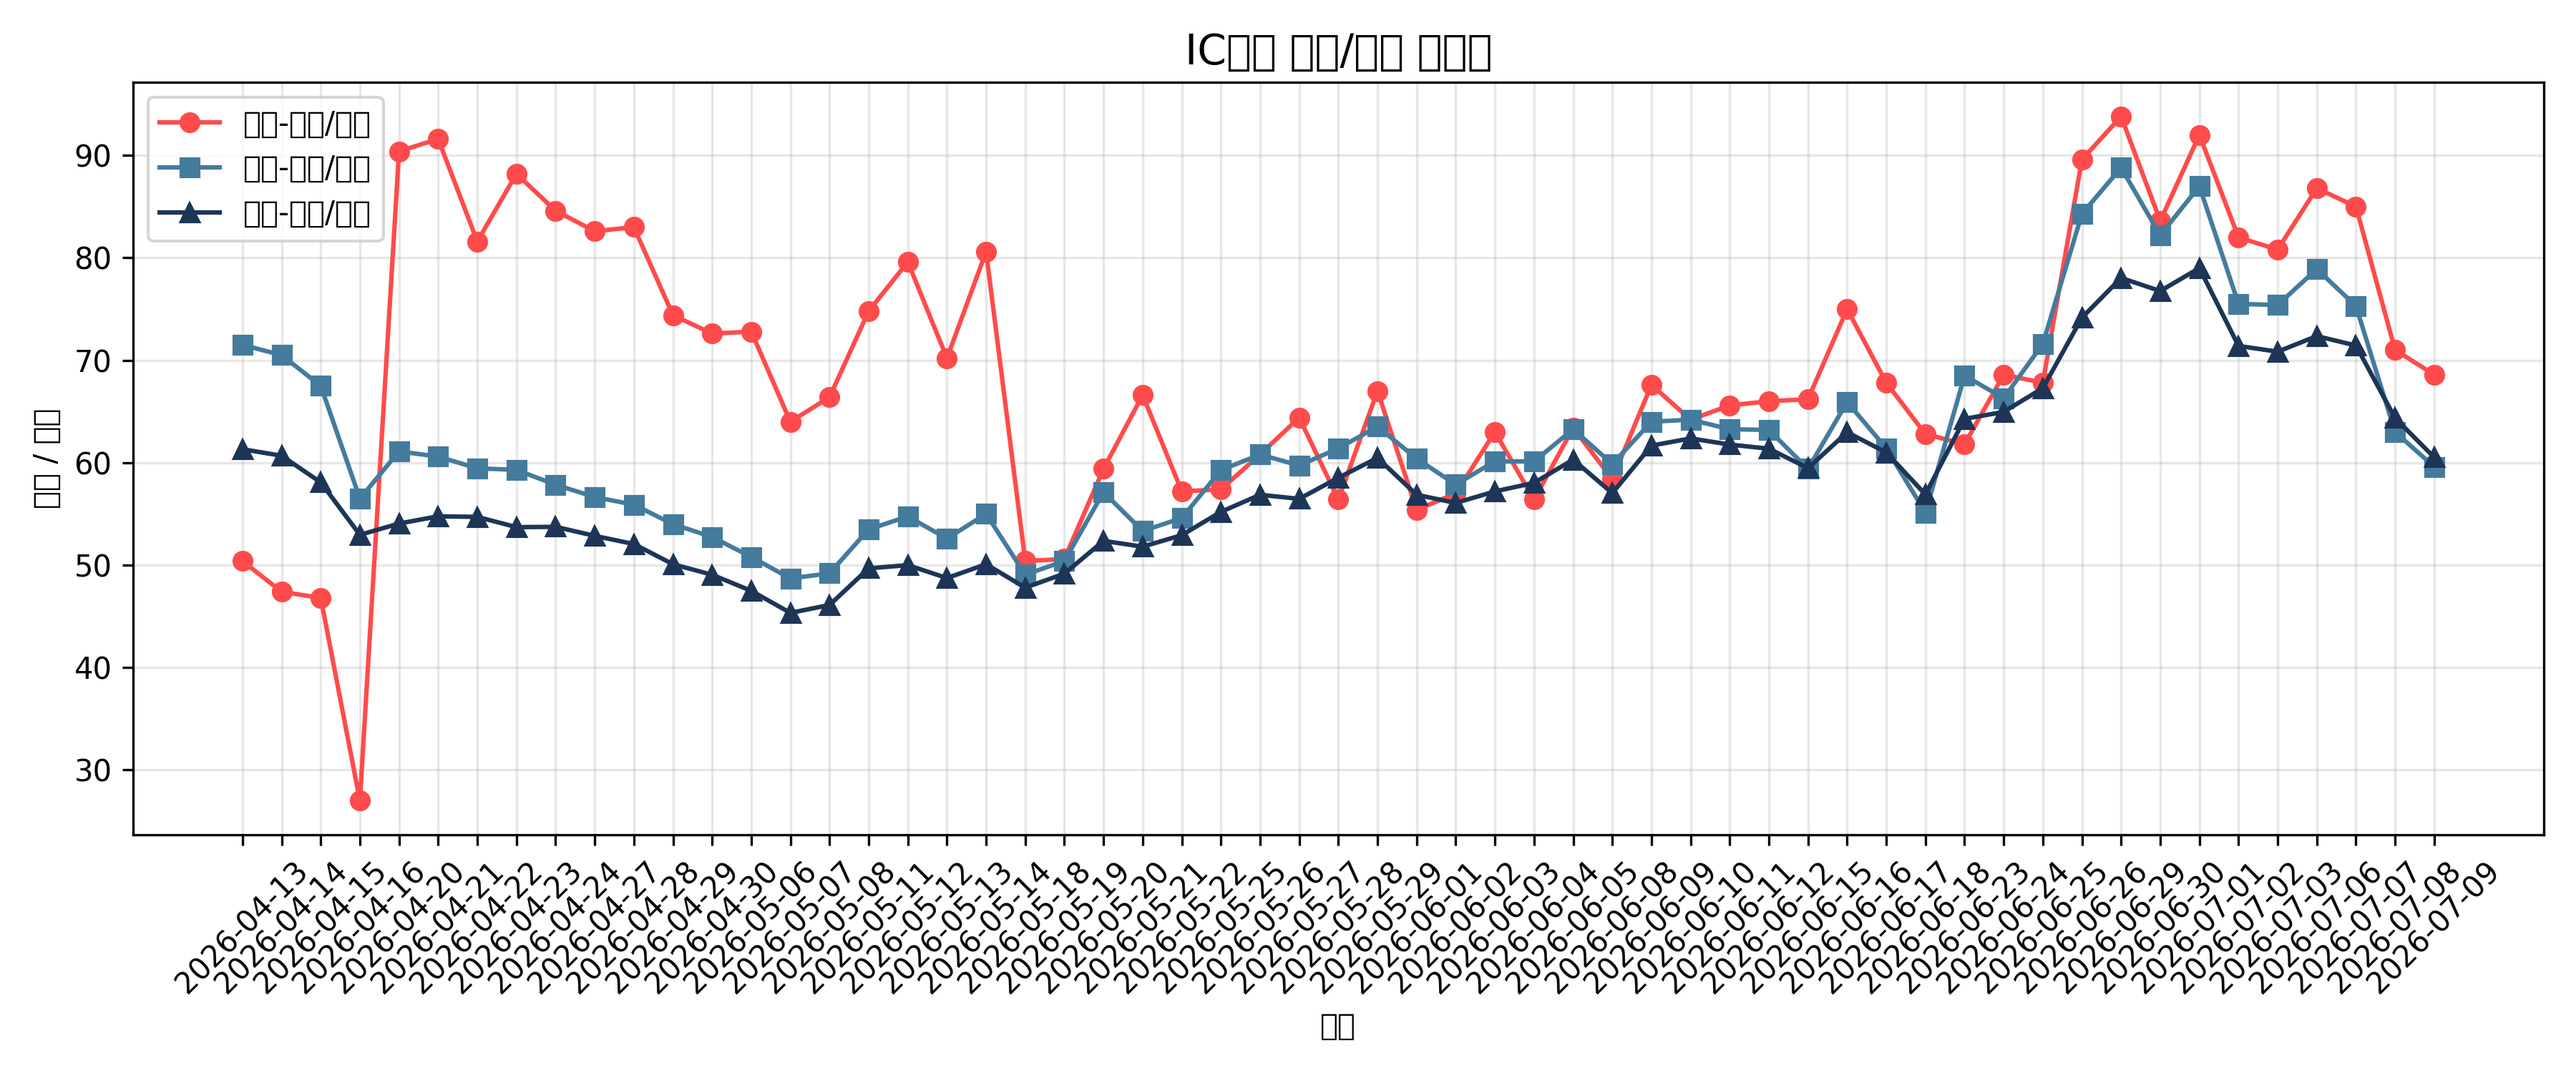
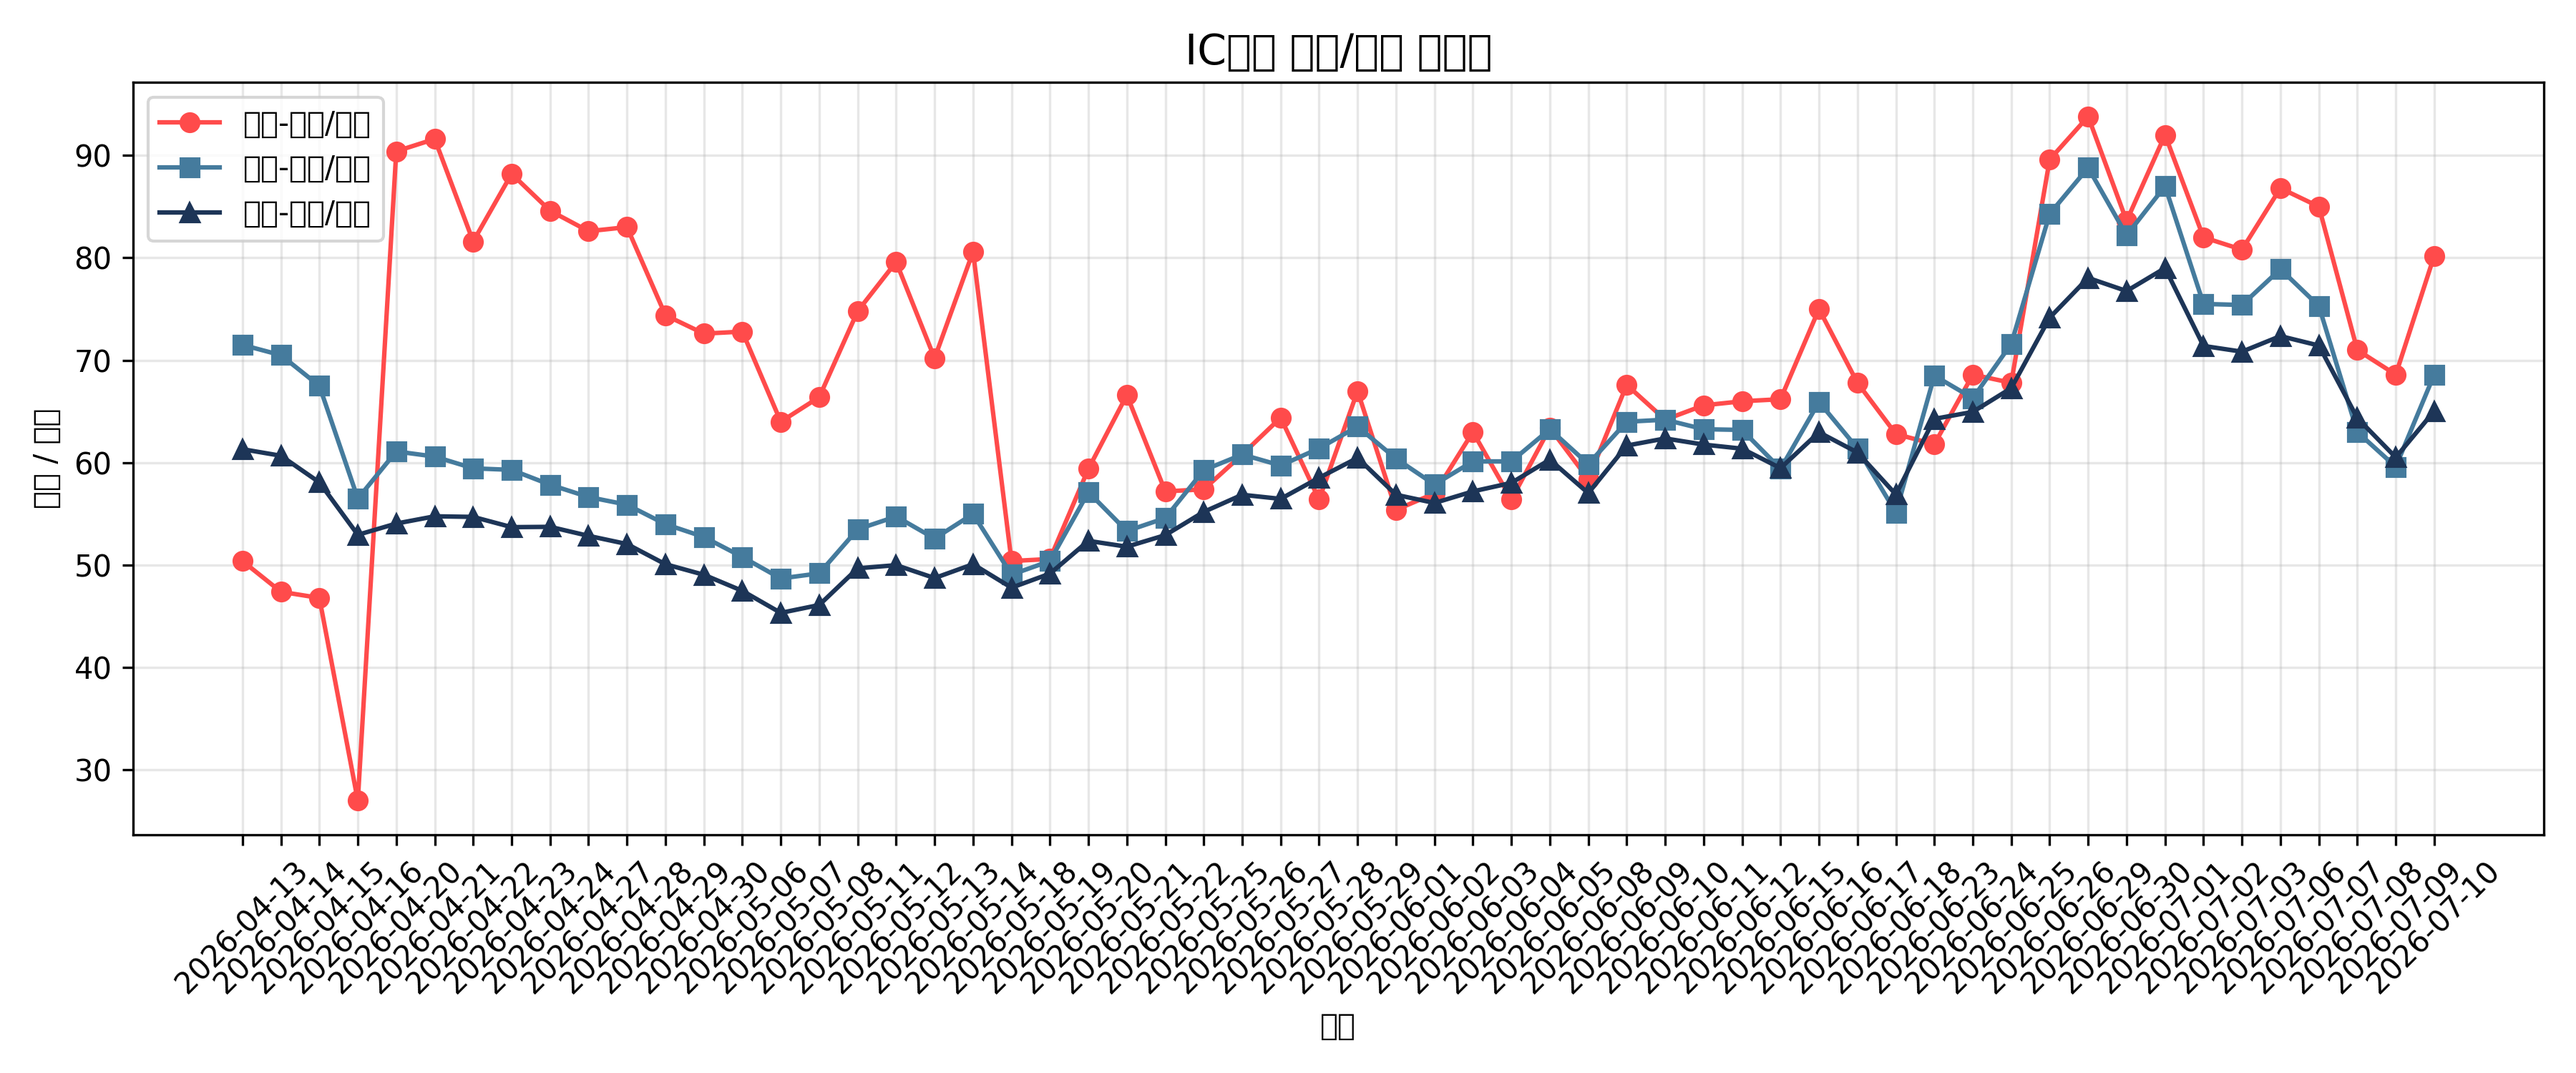
deploy: 4d1bb30b7b0bf8623cc214497fc979b4192c654b

diff --git a/index.html b/index.html
@@ -84,19 +84,19 @@
 <body>
     <div class="container">
         <h1>IC期货基差监控</h1>
-        <div class="last-updated">最后更新：2026-07-09 19:39:13</div>
+        <div class="last-updated">最后更新：2026-07-10 19:32:45</div>
         
         <div class="stats">
             <div class="stat-card">
-                <div class="stat-value">68.6</div>
+                <div class="stat-value">80.2</div>
                 <div class="stat-label">当月-下月/月差</div>
             </div>
             <div class="stat-card">
-                <div class="stat-value">59.6</div>
+                <div class="stat-value">68.6</div>
                 <div class="stat-label">当月-当季/月差</div>
             </div>
             <div class="stat-card">
-                <div class="stat-value">60.52</div>
+                <div class="stat-value">65.04</div>
                 <div class="stat-label">当月-下季/月差</div>
             </div>
         </div>
@@ -114,14 +114,6 @@
                 <th>当月-下月/月差</th>
                 <th>当月-当季/月差</th>
                 <th>当月-下季/月差</th>
-            </tr>
-
-            <tr>
-                <td>2026-07-01</td>
-                <td>IC2607</td>
-                <td>92.0</td>
-                <td>87.0</td>
-                <td>79.0</td>
             </tr>
 
             <tr>
@@ -170,6 +162,14 @@
                 <td>68.6</td>
                 <td>59.6</td>
                 <td>60.52</td>
+            </tr>
+
+            <tr>
+                <td>2026-07-10</td>
+                <td>IC2607</td>
+                <td>80.2</td>
+                <td>68.6</td>
+                <td>65.04</td>
             </tr>
 
         </table>
